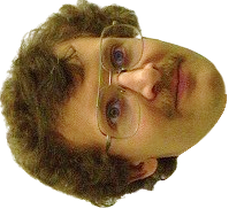
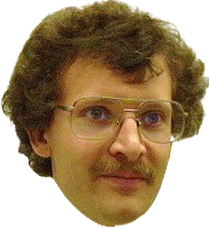
بولشيت

diff --git a/index.html b/index.html
@@ -52,6 +52,7 @@
       Get the Uninstaller!
     </button>
 
+
     <!-- I don't know shit about html or js so I stole the rickroll stuff from Maurice Kühl (https://github.com/mauricekuehl/rickroll)
 
     MIT License
@@ -123,33 +124,31 @@
 
     <!-- End of MIT License, nobody else but me is to blame for the horrors beyond this line -->
 
-    <img class="bouncer" src="images/bouncer.jpg" />
-    <img class="bouncer" src="images/bouncer.jpg" />
-    <img class="bouncer" src="images/bouncer2.png" />
-    <img class="bouncer" src="images/bouncer2.png" />
-    <img class="bouncer" src="images/bouncer3.png" />
-    <img class="bouncer" src="images/bouncer3.png" />
+
+    <img class="bouncer" src="images/bouncer1.png" draggable="false" />
+    <img class="bouncer" src="images/bouncer2.png" draggable="false" />
+    <img class="bouncer" src="images/bouncer3.png" draggable="false" />
+    <img class="bouncer" src="images/bouncer3.png" draggable="false" />
+    <img class="bouncer" src="images/bouncer2.png" draggable="false" />
+    <img class="bouncer" src="images/bouncer1.png" draggable="false" />
 
     <style>
       .bouncer {
-        /* position: absolute; */
         cursor: pointer;
         position: fixed;
-        z-index: 45;
-        width: 120px;
-        height: auto;
-        /* pointer-events: none; */
-        /* animation: spinSlow 3.5s linear infinite; */
+        z-index: 50;
+        height: 120px;
+        width: auto;
+        user-select: none;        /* prevent text selection on drag */
       }
     </style>
 
     <script>
       function createBouncer(img) {
-        const imgWidth = img.clientWidth;
-        const imgHeight = img.clientHeight;
+        img.style.height = `${120 * (0.7 + 0.6 * Math.random())}px`;
 
-        const maxX = window.innerWidth - imgWidth;
-        const maxY = window.innerHeight - imgHeight;
+        const maxX = window.innerWidth - img.clientWidth;
+        const maxY = window.innerHeight - img.clientHeight;
 
         // Independent state for this image
         let x = Math.random() * maxX;
@@ -159,10 +158,10 @@
         let boost = 0;
 
         const angularSpeed = (Math.random() * 240 + 30) * (Math.random() < 0.5 ? -1 : 1);
-        let angle = 42;//Math.random() * 360; // start at random angle
+        let angle = Math.random() * 360; // start at random angle
 
         img.addEventListener("click", () => {
-          boost += 4;
+          boost += 5;
         });
 
         let lastTs = null;
@@ -172,21 +171,22 @@
           const dt = (ts - lastTs) / 1000; // seconds since last frame
           lastTs = ts;
 
+          const maxX = window.innerWidth - img.clientWidth;  // update each frame in case the window was resized
+          const maxY = window.innerHeight - img.clientHeight;
+
           angle += angularSpeed * (1 + boost) * dt;
           img.style.transform = `rotate(${angle}deg) translateZ(0)`;
 
           x += dx * (1 + boost) * dt;
           y += dy * (1 + boost) * dt;
-
           if (x <= 0)    { x = 0;    dx *= -1; }
           if (x >= maxX) { x = maxX; dx *= -1; }
           if (y <= 0)    { y = 0;    dy *= -1; }
           if (y >= maxY) { y = maxY; dy *= -1; }
-
-          boost *= 0.995;
-
           img.style.left = x + "px";
           img.style.top = y + "px";
+
+          boost *= 0.995;
 
           requestAnimationFrame((ts) => bounce(ts));
         }
@@ -503,19 +503,6 @@
     }
     iframe {
       pointer-events: none;
-    }
-
-    /* #bouncer {
-      position: fixed;
-      z-index: 46;
-      width: 100px;
-      height: auto;
-      animation: spinSlow 3.5s linear infinite;
-    } */
-
-    @keyframes spinSlow {
-      from { transform: rotate(0deg); }
-      to { transform: rotate(360deg); }
     }
   </style>
 </html>
